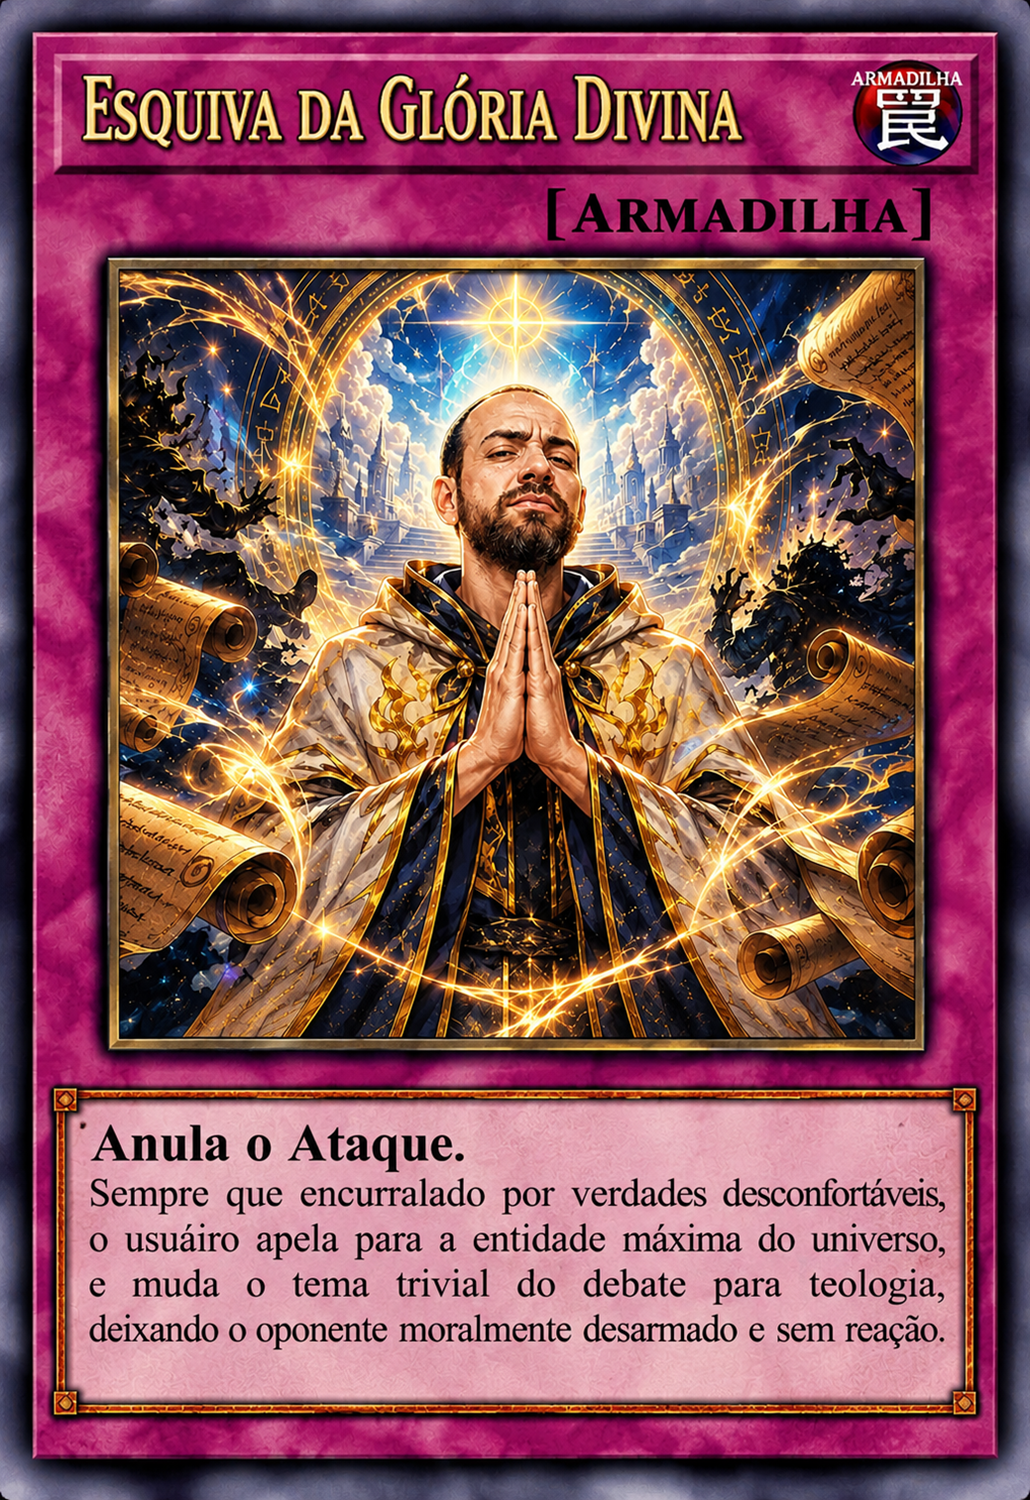
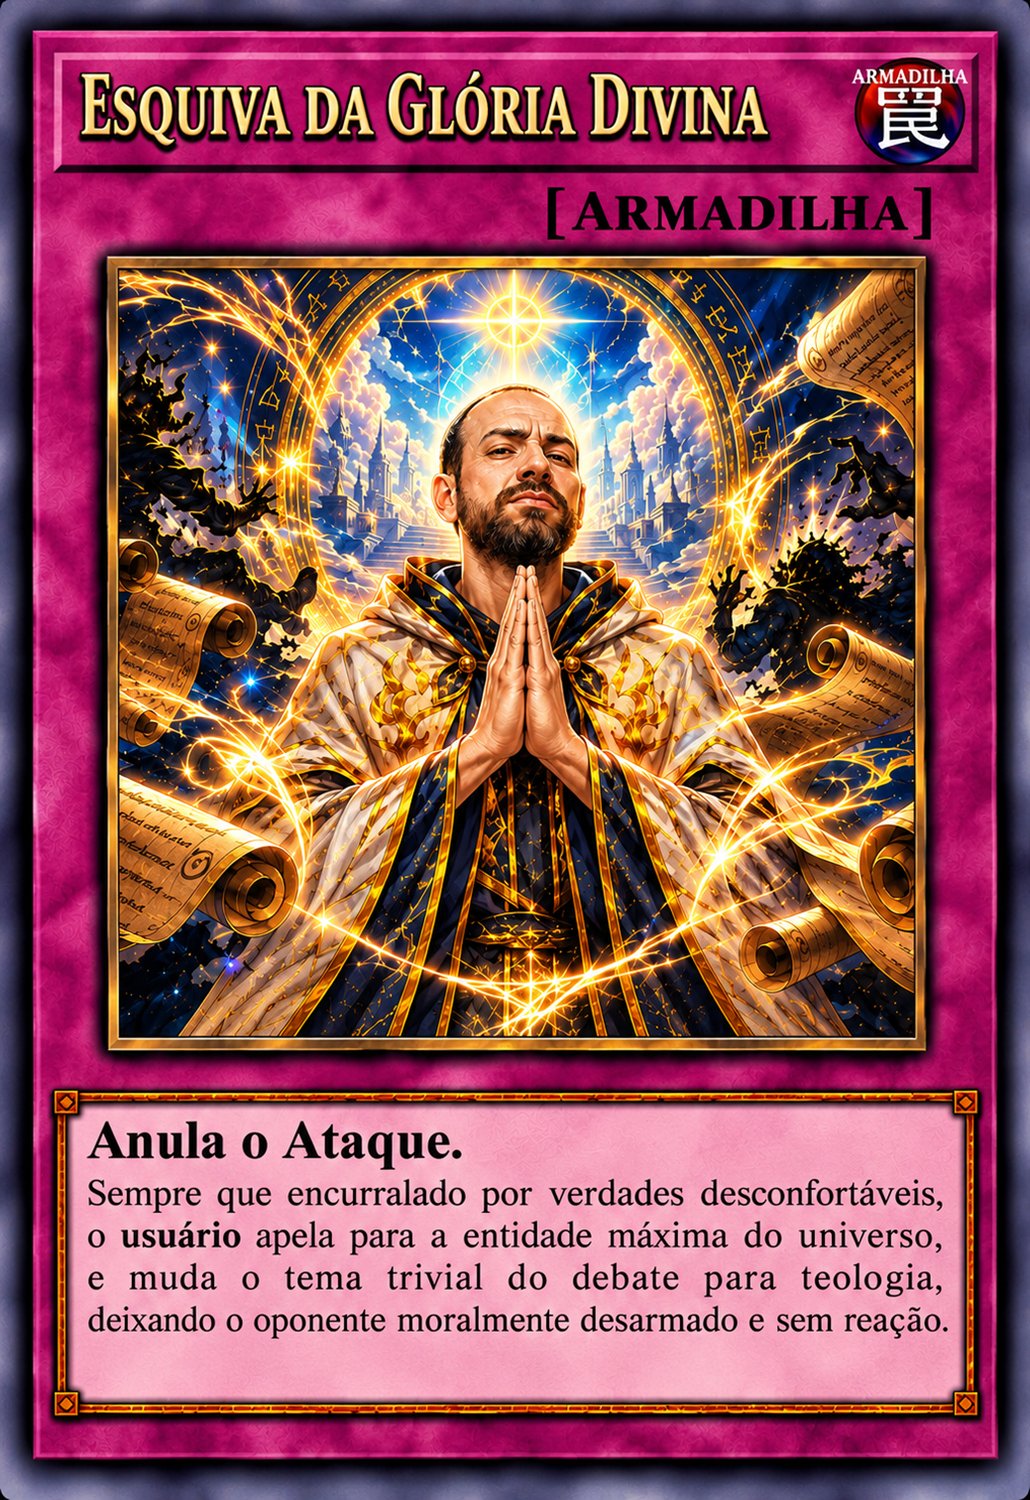
:sparkles: feat: Renovar nome, texto e arte das armadilhas do deck de Controle (#248)

diff --git a/src/engine/cards.ts b/src/engine/cards.ts
@@ -25,10 +25,10 @@ export const CARDS: readonly Card[] = [
   { id: "fire_bolt", name: "Raio de Fogo", type: "SPELL", effect: { kind: "DAMAGE", amount: 800 }, image: image("fire_bolt"), description: "Causa 800 de dano direto ao oponente.", flavor: "Faísca lançada com precisão, deixa uma marca que arde por dias." },
   { id: "arcane_draw", name: "Sabedoria Arcana", type: "SPELL", effect: { kind: "DRAW", count: 1 }, image: image("arcane_draw"), description: "Compre 1 carta.", flavor: "Os antigos tomos revelam seus segredos a quem sabe ouvi-los." },
   // Armadilhas
-  { id: "spike_pit", name: "Fosso de Espinhos", type: "TRAP", trigger: "ATTACK_DECLARED", effect: { kind: "DESTROY_ATTACKER", maxAttack: 2000 }, image: image("spike_pit"), description: "Destrói um monstro atacante com ATK 2000 ou menos.", flavor: "O chão parece firme, até o primeiro passo em falso." },
+  { id: "spike_pit", name: "Reversão de Acusação Absurda", type: "TRAP", trigger: "ATTACK_DECLARED", effect: { kind: "DESTROY_ATTACKER", maxAttack: 2000 }, image: image("spike_pit"), description: "Destrói um monstro atacante com ATK 2000 ou menos.", flavor: "Quando encurralado por uma contradição moral ou lógica, o usuário devolve a acusação contra o adversário, sem qualquer prova ou nexo causal, com o objetivo de instaurar o caos e forçar o adversário a gastar energia se justificando de algo bizarro." },
   { id: "divine_glory_evasion", name: "Esquiva da Glória Divina", type: "TRAP", trigger: "ATTACK_DECLARED", effect: { kind: "NEGATE_ATTACK" }, image: "/cards/esquiva_da_gloria_divina.png", description: "Anula um ataque.", flavor: "Quem investe contra ela só encontra o próprio reflexo." },
   { id: "hidden_snare", name: "Laço Escondido", type: "TRAP", trigger: "SUMMON", effect: { kind: "NEGATE_SUMMON" }, image: image("hidden_snare"), description: "Impede uma invocação.", flavor: "Esperou em silêncio por tanto tempo que quase foi esquecido." },
-  { id: "dark_veil", name: "Véu Sombrio", type: "TRAP", trigger: "SPELL_ACTIVATION", effect: { kind: "NEGATE_SPELL" }, image: image("dark_veil"), description: "Cancela a ativação de uma magia.", flavor: "Uma cortina de sombras que abafa até as palavras mais poderosas." },
+  { id: "dark_veil", name: "Barreira Emocional de Fumaça", type: "TRAP", trigger: "SPELL_ACTIVATION", effect: { kind: "NEGATE_SPELL" }, image: image("dark_veil"), description: "Cancela a ativação de uma magia.", flavor: "Ao ser cobrado por promessas descumpridas ou escolhas duvidosas, o usuário ativa um escudo psíquico instantâneo invocando traumas e problemas misteriosos não especificados. Isso gera culpa imediata no adversário, fazendo-o se sentir insensível ao cobrar o óbvio." },
   // Deck Agressivo
   { id: "crimson_blade", name: "Lâmina Rubra", type: "MONSTER", level: 2, attack: 800, defense: 300, image: image("crimson_blade"), description: "Uma lâmina viva que corta antes de ser vista.", flavor: "Afiada pelo ódio, nunca volta à bainha sem sangue." },
   { id: "crimson_wolf", name: "Lobo Rubro", type: "MONSTER", level: 3, attack: 1300, defense: 700, image: image("crimson_wolf"), description: "Um lobo de pelagem vermelha que ataca em fúria.", flavor: "Sua matilha foi extinta, mas a fome continua." },
